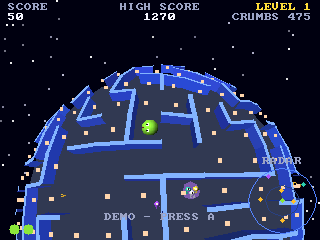
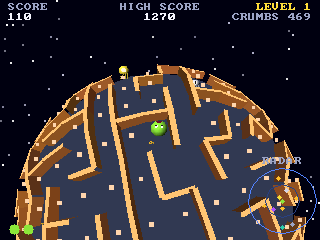
Planet Chomp: bronze maze walls, matching the Unity game

diff --git a/projects/planet_chomp/src/render.c b/projects/planet_chomp/src/render.c
@@ -219,8 +219,8 @@ void rd_frame(const Camera *cam, const unsigned char *crumb, const unsigned char
             it_c[it] = RGB15(235, 240, 255);
             it_c2[it] = RGB15(255, 255, 255);
         } else {
-            it_c[it] = shade(50, 80, 220, k);
-            it_c2[it] = RGB15(130, 180, 255);
+            it_c[it] = shade(158, 92, 41, k);
+            it_c2[it] = RGB15(255, 199, 115);
         }
         rd_stats_walls++;
     }
